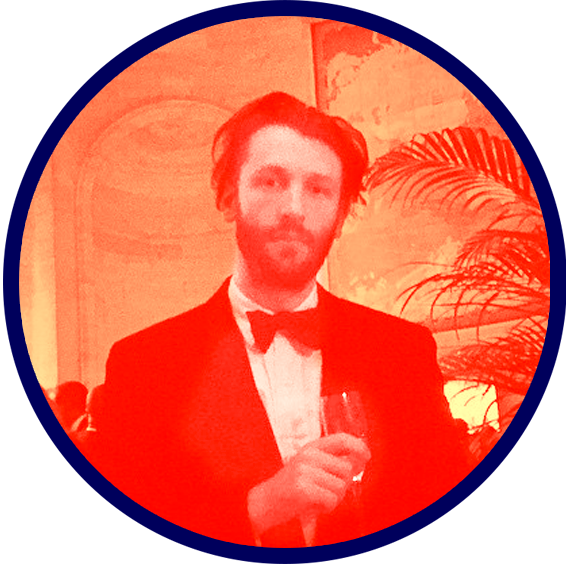
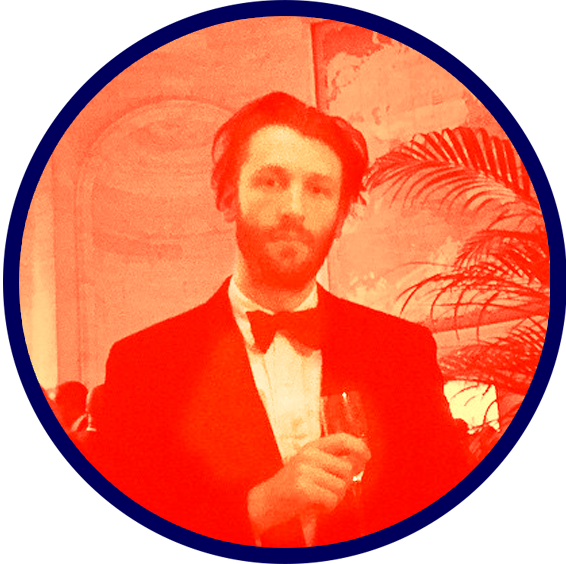
some new js paths, new zac image

Changed region(s): [[0.3905, 0.211, 0.6608, 0.9344]]

diff --git a/_includes/js.html b/_includes/js.html
@@ -5,13 +5,15 @@
 
 <!-- jQuery -->
 <script type="text/javascript" src="js/jquery-2.2.4.min.js"></script>
-<!-- <script src="http://code.jquery.com/jquery-2.2.4.min.js" integrity="sha256-BbhdlvQf/xTY9gja0Dq3HiwQF8LaCRTXxZKRutelT44=" crossorigin="anonymous"></script> -->
+<!-- <script type="text/javascript" src="{{ "/js/jquery-2.2.4.min.js" | prepend: site.baseurl }}"></script> -->
 
 <!-- ScrollTo -->
 <script type="text/javascript" src="js/vendor/jquery-scrollto.js"></script>
+<!-- <script type="text/javascript" src="{{ "/js/vendor/jquery-scrollto.js" | prepend: site.baseurl }}"></script> -->
 
 <!-- Slick -->
 <script type="text/javascript" src="slick/slick.min.js"></script>
+<!-- <script type="text/javascript" src="{{ "/slick/slick.min.js" | prepend: site.baseurl }}"></script> -->
 
 <!-- Google map -->
 <!-- <script async defer src="https://maps.googleapis.com/maps/api/js?key=AIzaSyCrTExTsOs8z1r-fymz8nbAn4XlT902WD8&callback=initMap"></script> -->
@@ -20,7 +22,9 @@
 <script type="text/javascript" src="{{ "/js/map.js" | prepend: site.baseurl }}"></script>
 
 <!-- TODO: post form info to google sheet -->
-<script type="text/javascript" src="js/form.js"></script>
+<!-- <script type="text/javascript" src="js/form.js"></script> -->
+<script type="text/javascript" src="{{ "/js/form.js" | prepend: site.baseurl }}"></script>
 
 <!-- main -->
-<script type="text/javascript" src="js/main.js"></script>
+<!-- <script type="text/javascript" src="js/main.js"></script> -->
+<script type="text/javascript" src="{{ "/js/main.js" | prepend: site.baseurl }}"></script>

diff --git a/_sass/_news-page.scss b/_sass/_news-page.scss
@@ -11,7 +11,7 @@ body.news-page {
 
 .news-post__wrapper {
 
-	background-color: none;
+	background-color: $lightred !important;
 	margin-top: 4rem;
 
 	h1 {
@@ -24,21 +24,21 @@ body.news-page {
 
 	.news-post__list {
 
-		background: none;
+		background: $lightred !important;
 
 		a {
 			// color: white;
 			text-decoration: none;
 
 			&:hover li {
-				background: white;
+				background: white !important;
 			}
 		}
 
 
 		li {
+			background: $lightpink !important;
 			list-style: none;
-			background: $lightpink;
 			border-bottom: solid 12px $indigo;
 			padding: 1rem 2rem 0 1rem;
 			transition: background .2s;
@@ -65,7 +65,7 @@ body.news-page {
 }
 
 .post {
-	background: white;
+	background: white !important;
 	margin-top: 4rem;
 	padding: 2rem;
 
